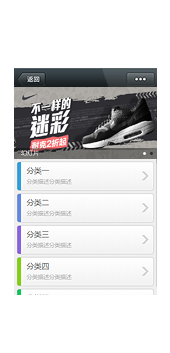
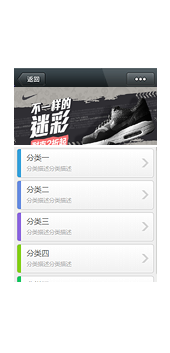
小区首页的列表模板

Changed region(s): [[0.0588, 0.4051, 0.9412, 0.8414], [0.8235, 0.7167, 0.8824, 0.779], [0.9118, 0.779, 0.9412, 0.8102]]

diff --git a/new_weixin/tpl/Wap/default/Index/179_index_4g4f.html b/new_weixin/tpl/Wap/default/Index/179_index_4g4f.html
@@ -3,17 +3,15 @@
 <head>
 
 <title>{ZF:$tpl.wxname}</title>
-
 <meta name="viewport" content="width=device-width,height=device-height,inital-scale=1.0,maximum-scale=1.0,user-scalable=no;">
 <meta name="apple-mobile-web-app-capable" content="yes">
 <meta name="apple-mobile-web-app-status-bar-style" content="black">
 <meta name="format-detection" content="telephone=no">
 <meta charset="utf-8">
 <link href="{ZF::RES}/Index/79/cate.css" rel="stylesheet" type="text/css" />
- <link href="{ZF::RES}/Index/public/css/iscroll.css" rel="stylesheet" type="text/css" />
+<link href="{ZF::RES}/Index/public/css/iscroll.css" rel="stylesheet" type="text/css" />
 
 <style>
-  
 </style>
 <script src="{ZF::RES}/Index/public/js/iscroll.js" type="text/javascript"></script>
 <script type="text/javascript">
@@ -75,7 +73,6 @@ document.addEventListener('DOMContentLoaded', loaded, false);
 		<li>
 			<a href="<if condition="$vo['url'] eq ''">{ZF::U('Wap/Index/lists',array('classid'=>$vo['id'],'token'=>$vo['token']))}<else/>{ZF:$vo.url|htmlspecialchars_decode}</if>" >
 				<em></em><p><span>{ZF:$vo.name}</span><i>{ZF:$vo.info}</i></p><b></b>
-			</a>
 		</li>
 	</volist>
 
